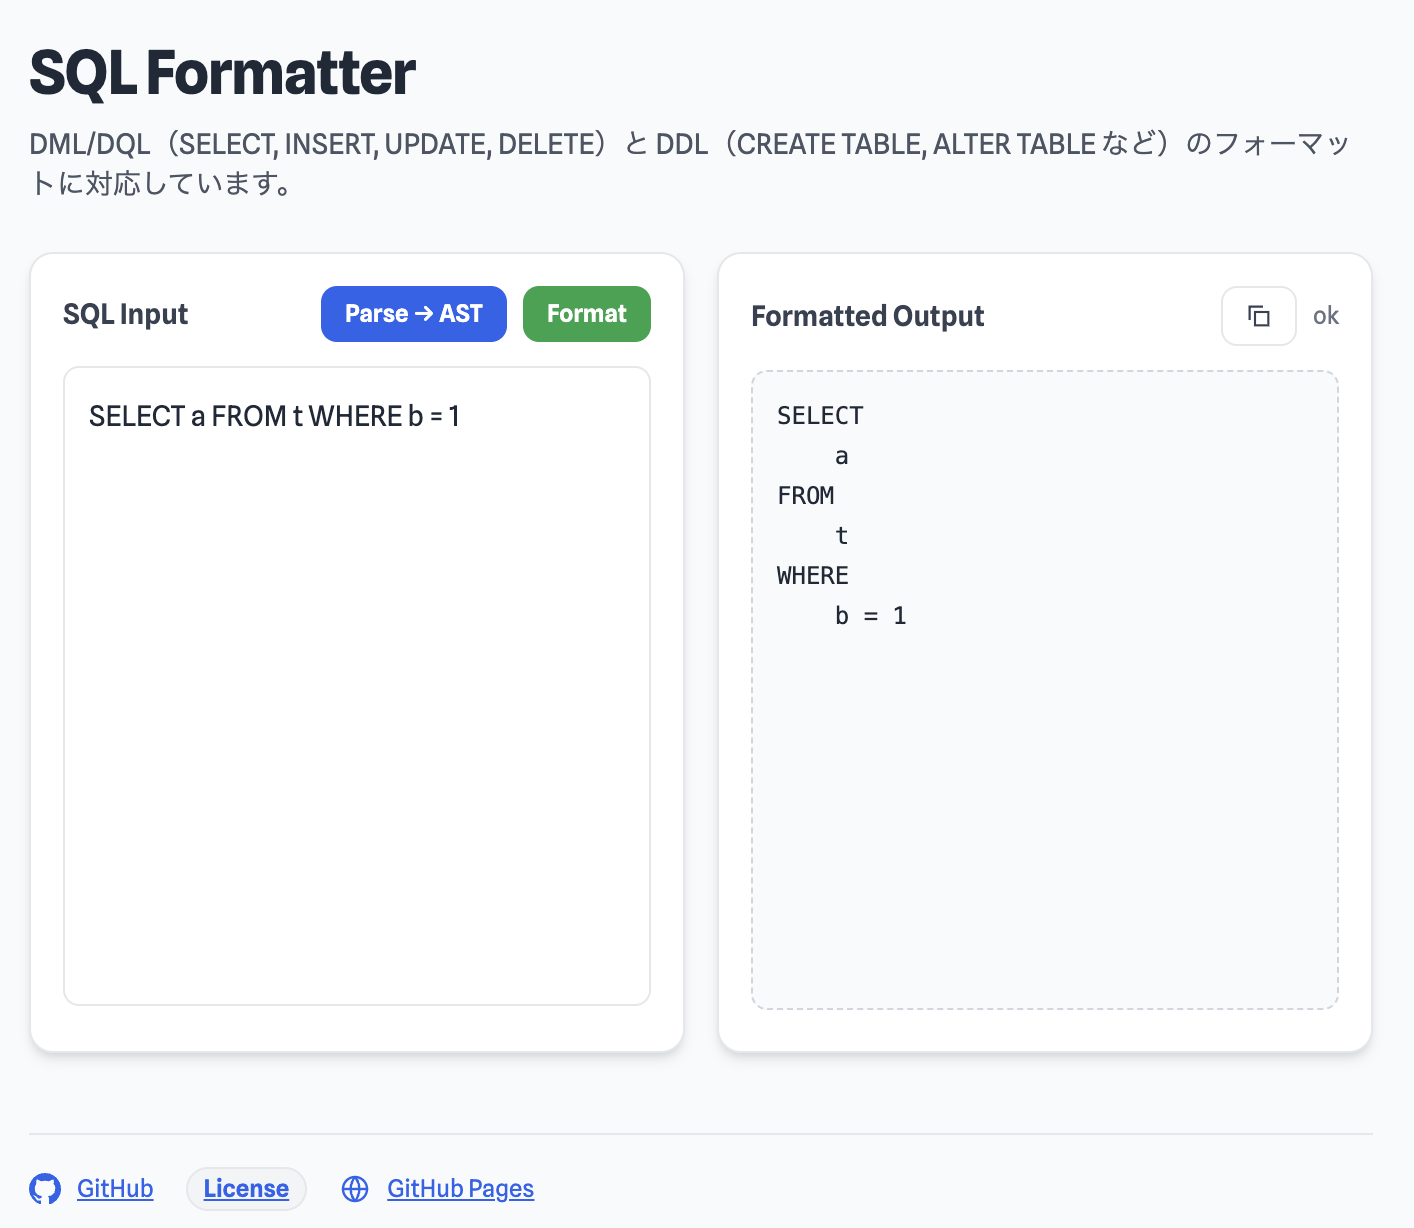
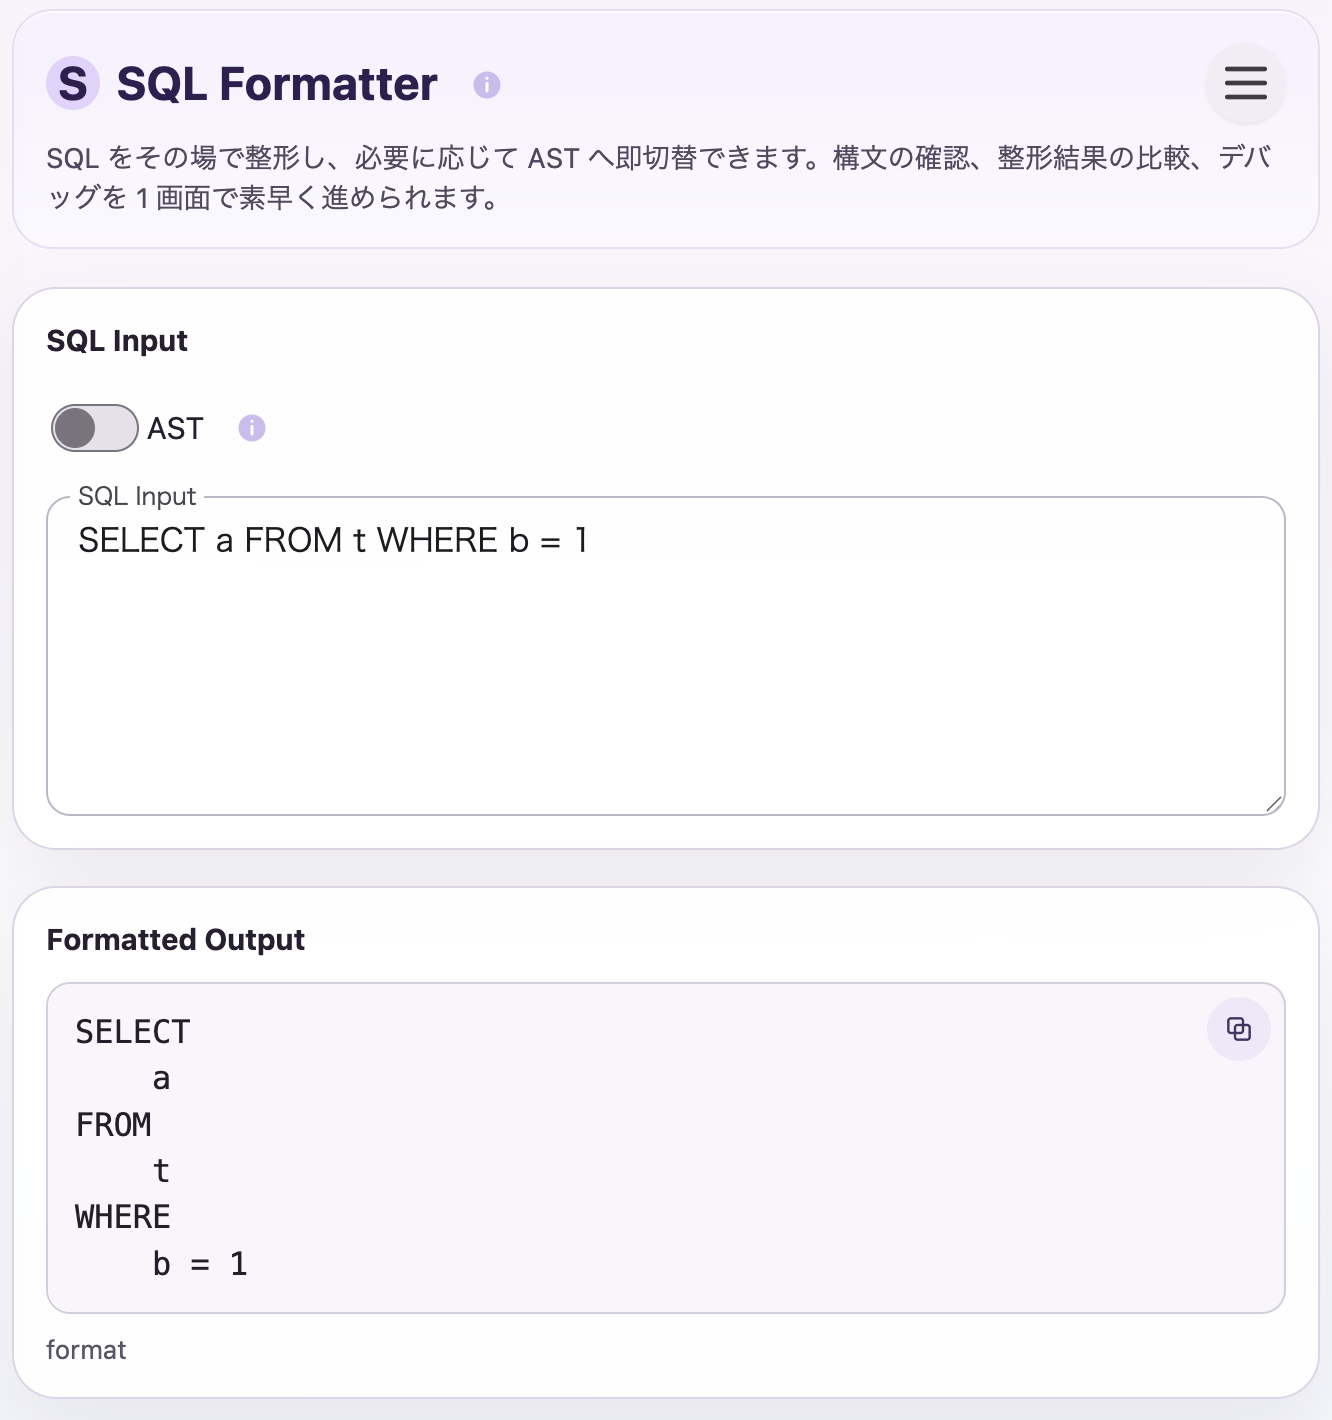
index.htmlのAST切替案内文を削除しスクリーンショットを更新
## 概要
トップページ `index.html` の紹介文を調整し、AST 表示切替に関する案内文を英語・日本語の両方から削除しました。あわせて、掲載しているスクリーンショットを最新の内容に更新しています。

## 変更内容
- `index.html` の英語セクションから `Switch between formatted output and AST view.` を削除
- `index.html` の日本語セクションから `整形結果と AST 表示を切り替えできます。` を削除
- `screenshot.png` を現行の説明内容に合わせて更新

## 目的
- トップページ上の訴求内容を整理し、不要になった案内文を削除するため
- 画面説明とスクリーンショットの内容を一致させるため

## 影響範囲
- トップページの表示文言
- 紹介用スクリーンショット

## 確認事項
- `index.html` の英語・日本語の機能一覧から対象文言が削除されていること
- スクリーンショットが最新表示に差し替わっていること

diff --git a/index.html b/index.html
@@ -150,7 +150,6 @@
       </p>
       <ul>
         <li>Format SQL immediately in the browser.</li>
-        <li>Switch between formatted output and AST view.</li>
         <li>Useful for syntax inspection, debug, and query review.</li>
         <li>No installation required.</li>
       </ul>
@@ -180,7 +179,6 @@
       </p>
       <ul>
         <li>ブラウザ上ですぐに SQL を整形できます。</li>
-        <li>整形結果と AST 表示を切り替えできます。</li>
         <li>構文確認、デバッグ、レビュー用途に使えます。</li>
         <li>インストール不要です。</li>
       </ul>
